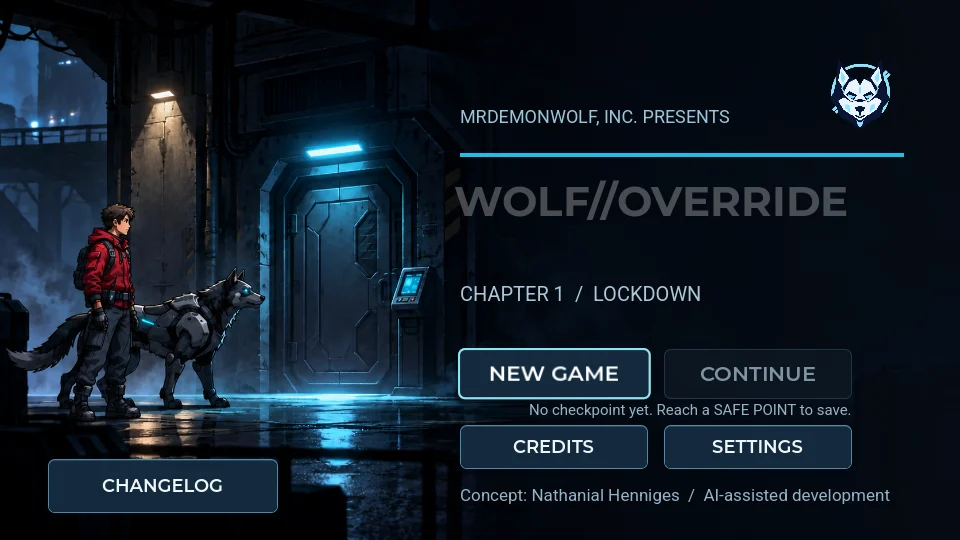
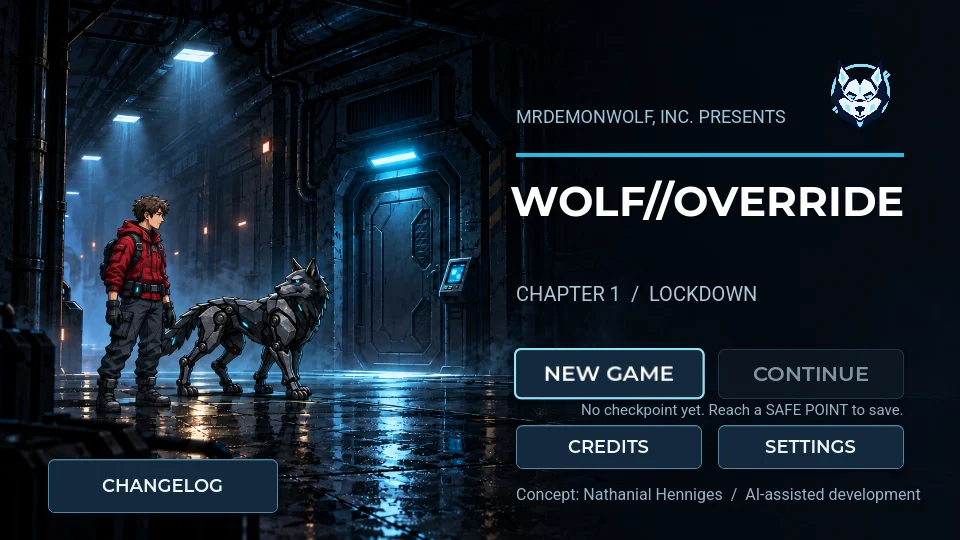
Use the approved variant B title art in the game and on the site
Replace the title background with variant B of the new key art (approved
by Nathanial Henniges on 2026-10-10; same path and import settings).
Move the title menu column, veil and Continue caption right so they sit
on the art's dark side, clear of the door, keypad and both characters.

Re-encode the landing hero WebPs and a new 1200x630 share card crop that
keeps both characters, slide the portrait/narrow hero art so WOLF stays
left of the copy, recapture the first-steps title screenshot, and update
the credits, asset register and changelog.

diff --git a/apps/docs/app/marketing.css b/apps/docs/app/marketing.css
@@ -494,12 +494,14 @@ html:has(.marketing-shell) {
   /*
    * Narrow and portrait viewports (including 1024px-wide 13-inch iPads in portrait):
    * cap the hero height at 90% of the width so the cover-fitted key art scales no
-   * wider than about 1.6x the viewport, and anchor it to the left edge, where both
-   * characters sit; past 90vw the engineer is cut off.
+   * wider than about 1.6x the viewport, and slide it 22% of the way from its left
+   * edge, which trims the pillar there and keeps the engineer and WOLF (who reaches
+   * a third of the way across the art) left of the copy column; past 90vw the
+   * engineer is cut off.
    */
   .marketing-hero { min-height: min(clamp(44rem, 88svh, 54rem), 90vw); }
-  .marketing-keyart { object-position: 0% 50%; }
-  .marketing-hero-copy { width: 53%; margin-left: 44%; }
+  .marketing-keyart { object-position: 22% 50%; }
+  .marketing-hero-copy { width: 51%; margin-left: 46%; }
   .marketing-story,
   .marketing-progress { gap: 2.5rem; }
 }

diff --git a/apps/docs/lib/seo.ts b/apps/docs/lib/seo.ts
@@ -5,7 +5,7 @@ export const siteDescription = 'A side-view sci-fi horror adventure by MrDemonWo
 
 export function pageMetadata(title: string, description: string, path: string): Metadata {
   const url = `${siteUrl}${path}`;
-  // Social cards get a 1200x630 centre crop of the provisional key art (JPEG for the widest crawler support).
+  // Social cards get a 1200x630 crop of the provisional key art that keeps both characters (JPEG for the widest crawler support).
   const image = { url: `${siteUrl}/share-card.jpg`, width: 1200, height: 630, alt: 'WOLF//OVERRIDE provisional key art: an engineer and robotic wolf in a research corridor.' };
   return {
     title,
